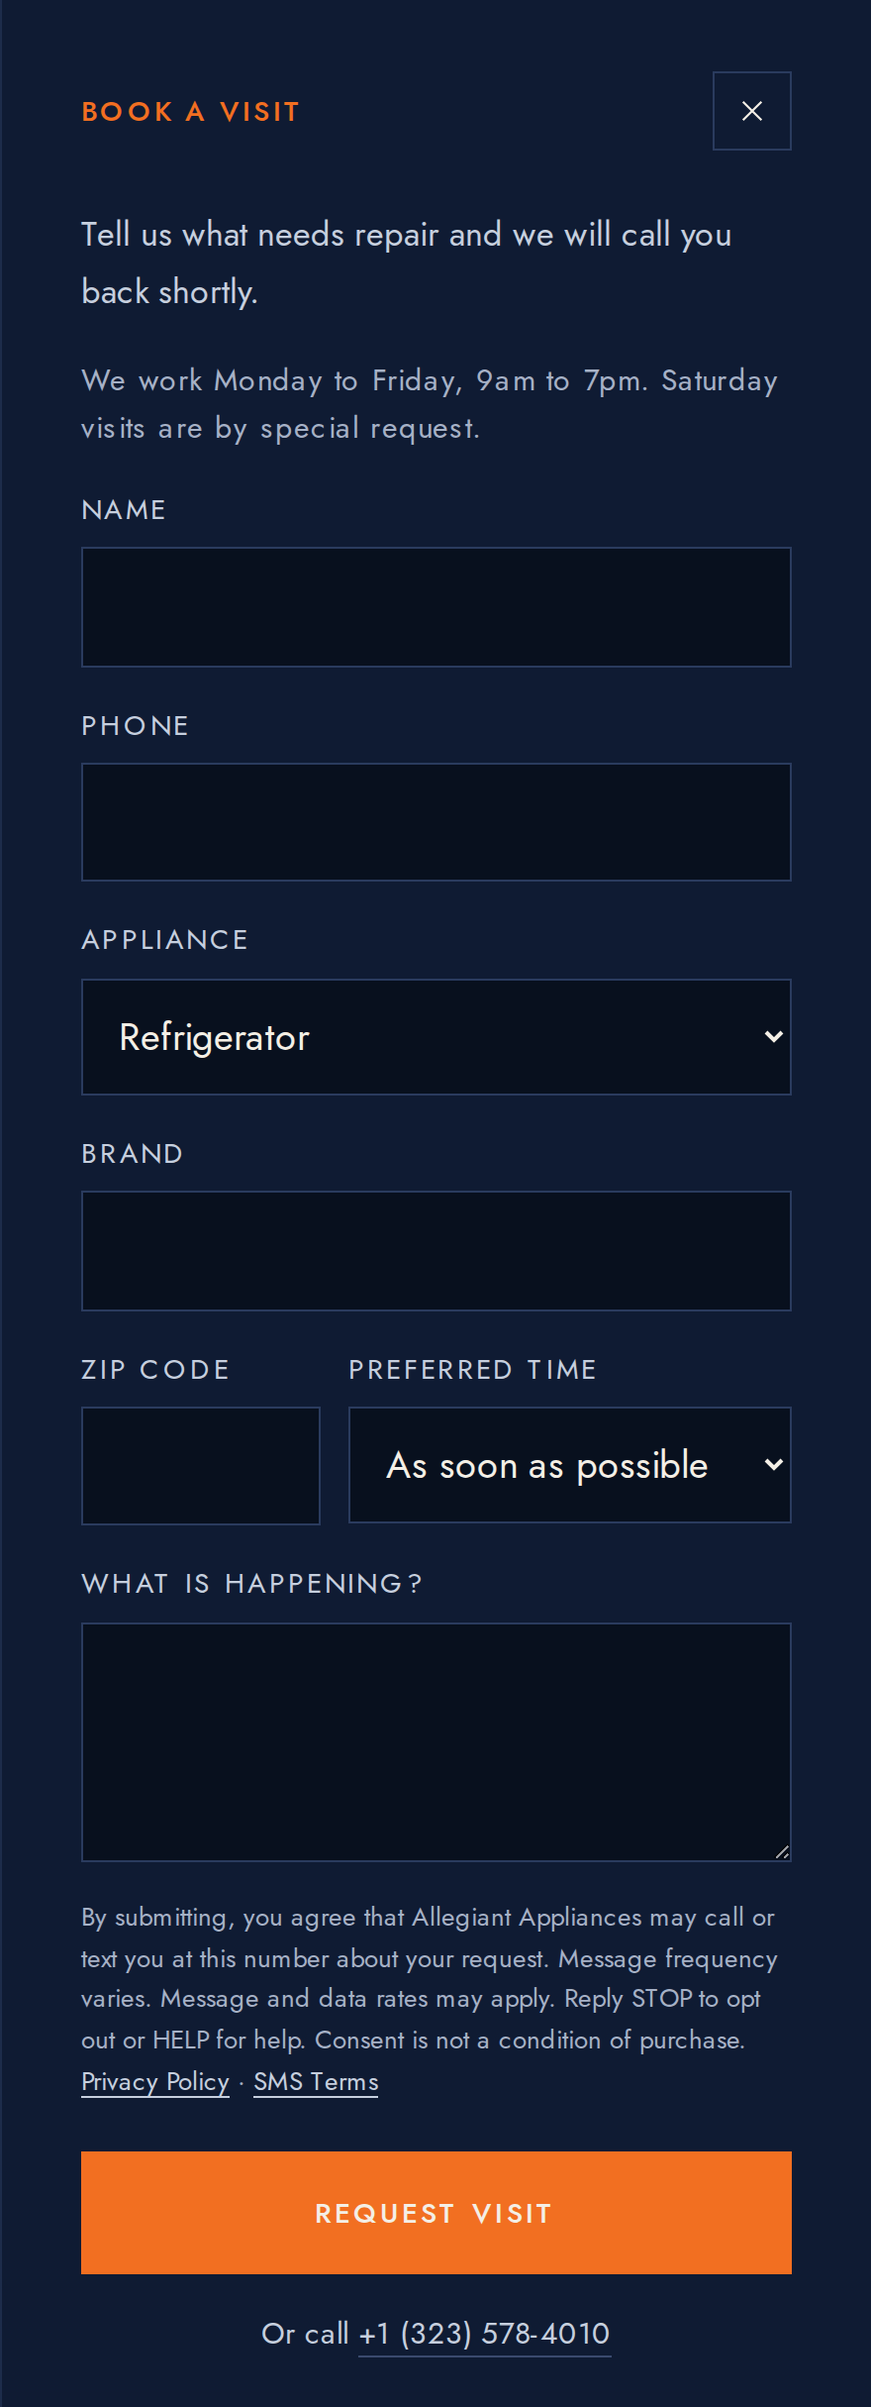
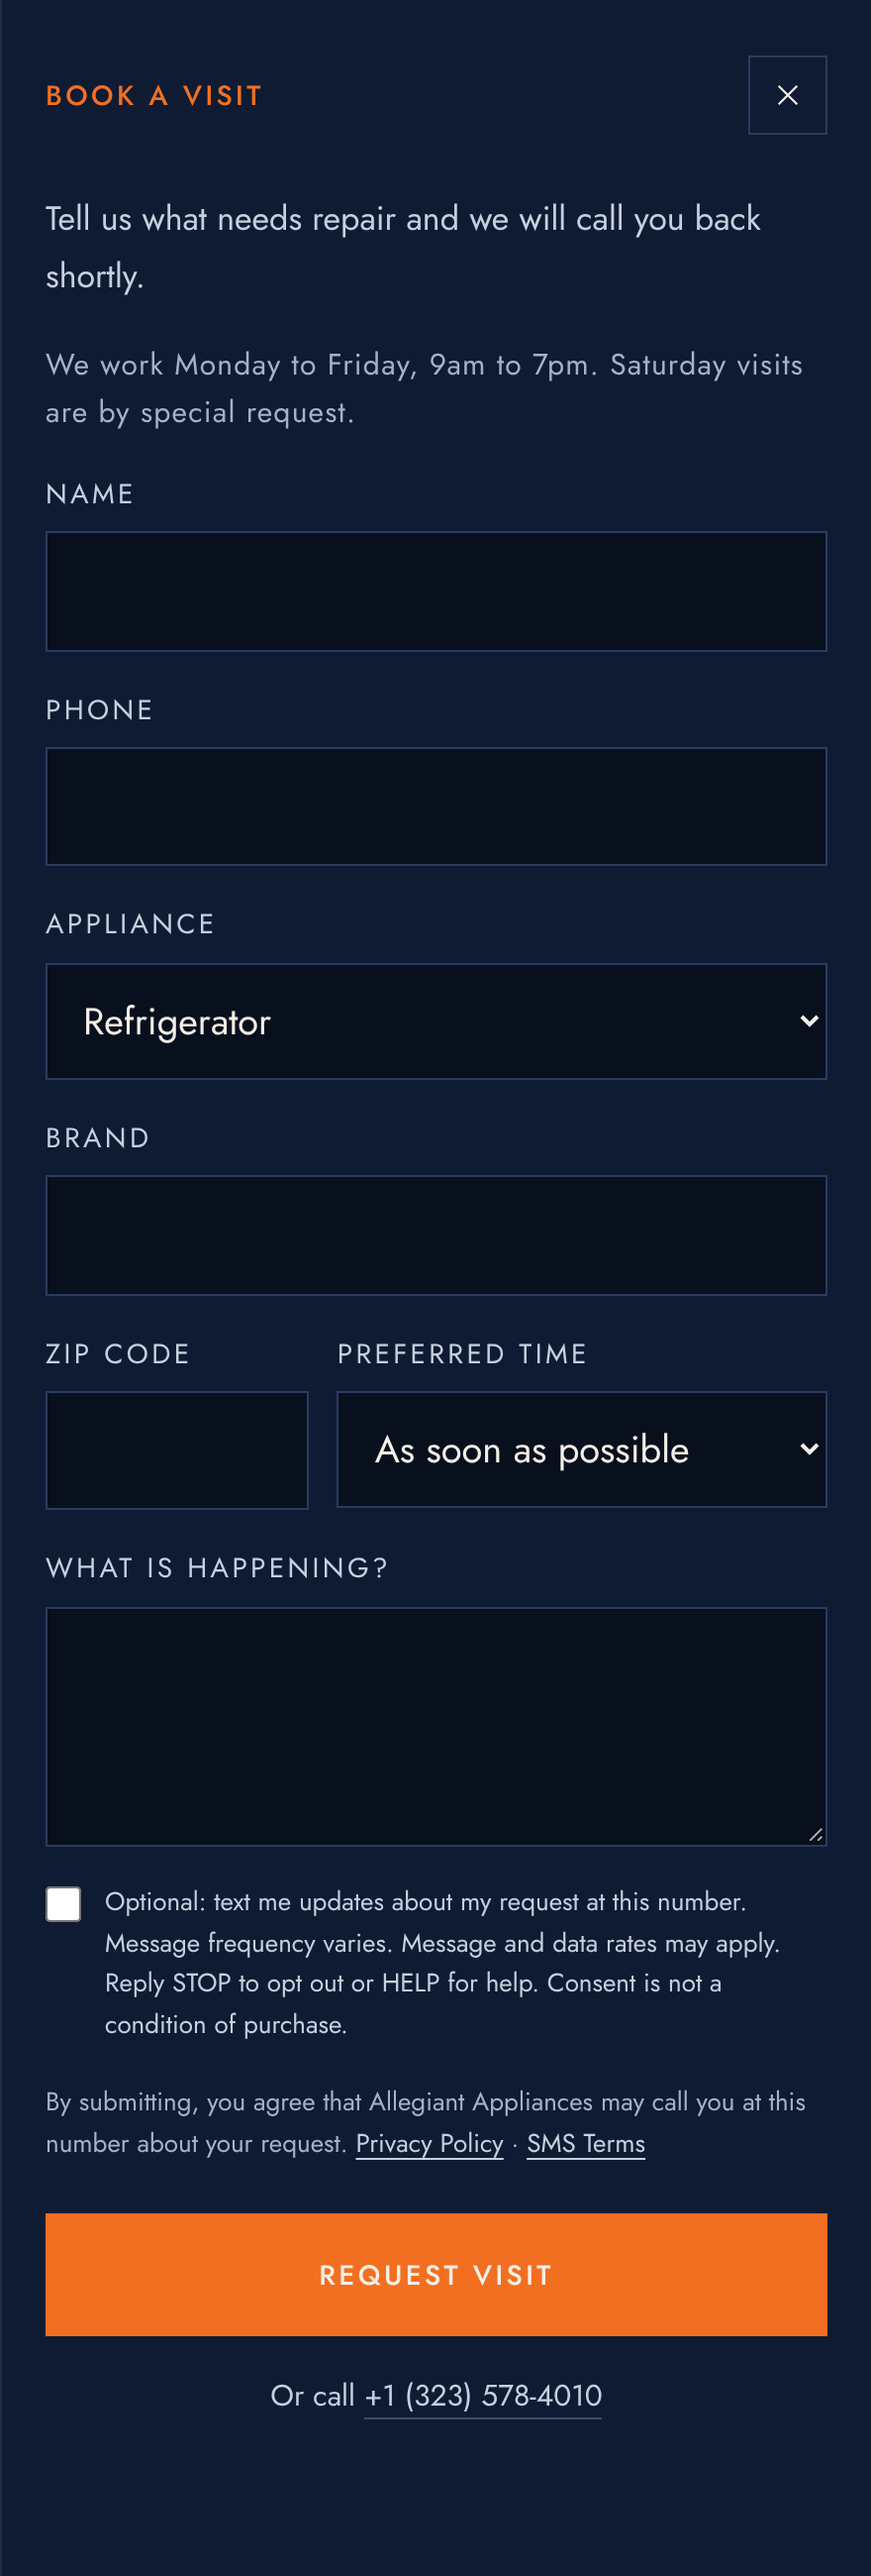
Allegiant: make SMS consent an optional, unchecked checkbox
Twilio rejected the toll-free verification with 30505 "Agreeing to Receive
Messages Must Be Optional": submitting the booking form meant agreeing to
texts. Now:
- The form has a separate, unchecked "Optional: text me updates…" box with
  frequency, rates, STOP/HELP and "not a condition of purchase". The note
  under the form only covers calls.
- SMS Terms (EN/ES) say the only way to opt in is that box; the "call or
  text us" path is removed.
- The lead API stores "[SMS OK]" in the note when the box is checked, the
  email shows "Texts OK: yes/no", and the admin panel only sends an SMS to
  leads that opted in.
- New opt-in screenshot of the form for the resubmission.

Claude-Session: https://claude.ai/code/session_01AY8gRkGhajetKFLkoZL3uJ

diff --git a/src/data/allegiant-legal.ts b/src/data/allegiant-legal.ts
@@ -16,7 +16,17 @@ const PHONE = "+1 (323) 578-4010";
 
 export const legalLabels: Record<
   Lang,
-  { privacy: string; terms: string; updatedLabel: string; backHome: string; consent: string; smsTerms: string }
+  {
+    privacy: string;
+    terms: string;
+    updatedLabel: string;
+    backHome: string;
+    /** Casilla opcional y desmarcada para aceptar mensajes de texto. */
+    smsOptIn: string;
+    /** Aviso bajo el formulario: enviar solo autoriza llamadas. */
+    callNote: string;
+    smsTerms: string;
+  }
 > = {
   en: {
     privacy: "Privacy Policy",
@@ -24,8 +34,9 @@ export const legalLabels: Record<
     updatedLabel: "Last updated",
     backHome: "Back to home",
     smsTerms: "SMS Terms",
-    consent:
-      "By submitting, you agree that Allegiant Appliances may call or text you at this number about your request. Message frequency varies. Message and data rates may apply. Reply STOP to opt out or HELP for help. Consent is not a condition of purchase.",
+    smsOptIn:
+      "Optional: text me updates about my request at this number. Message frequency varies. Message and data rates may apply. Reply STOP to opt out or HELP for help. Consent is not a condition of purchase.",
+    callNote: "By submitting, you agree that Allegiant Appliances may call you at this number about your request.",
   },
   es: {
     privacy: "Política de privacidad",
@@ -33,8 +44,9 @@ export const legalLabels: Record<
     updatedLabel: "Última actualización",
     backHome: "Volver al inicio",
     smsTerms: "Términos de mensajes de texto",
-    consent:
-      "Al enviar, aceptas que Allegiant Appliances te llame o te escriba por mensaje de texto a este número sobre tu solicitud. La frecuencia varía. Pueden aplicar tarifas de mensajes y datos. Responde STOP para dejar de recibirlos o HELP para ayuda. El consentimiento no es condición para comprar.",
+    smsOptIn:
+      "Opcional: envíenme mensajes de texto sobre mi solicitud a este número. La frecuencia varía. Pueden aplicar tarifas de mensajes y datos. Responde STOP para dejar de recibirlos o HELP para ayuda. El consentimiento no es condición para comprar.",
+    callNote: "Al enviar, aceptas que Allegiant Appliances te llame a este número sobre tu solicitud.",
   },
 };
 
@@ -238,7 +250,7 @@ export const privacy: Record<Lang, Doc> = {
 export const terms: Record<Lang, Doc> = {
   en: {
     title: "Terms of Service & SMS Terms",
-    updated: "October 26, 2026",
+    updated: "November 1, 2026",
     intro:
       "These terms apply when you use allegiantappliance.com or contact Allegiant Appliances Inc (“Allegiant”) by form, phone or text. The SMS Terms in section 7 describe our text-message program.",
     sections: [
@@ -286,7 +298,7 @@ export const terms: Record<Lang, Doc> = {
         p: [
           "Program: Allegiant Appliances service text messages.",
           "What you will receive: messages about your service request, such as confirming we received it, scheduling and confirming appointments, callbacks, technician arrival and follow-up on the work. We do not send marketing texts under this program.",
-          "How you opt in: you opt in when you give us your mobile number on our booking form and agree to be contacted, or when you call or text us and ask us to reach you at that number. Consent to receive texts is not a condition of purchasing any goods or services.",
+          "How you opt in: only by checking the optional box “Optional: text me updates about my request at this number” on our booking form. The box is unchecked by default and you can send the form without checking it; in that case we only call you. Consent to receive texts is not a condition of purchasing any goods or services.",
           "Message frequency varies depending on your request. Message and data rates may apply.",
           `How to opt out: reply STOP to any message at any time, and we will stop texting you. You may get one final message confirming it. For help, reply HELP or call ${PHONE}.`,
           "Carriers and mobile network operators are not liable for delayed or undelivered messages. Messages are not available on every carrier.",
@@ -303,7 +315,7 @@ export const terms: Record<Lang, Doc> = {
   },
   es: {
     title: "Términos de servicio y de mensajes de texto",
-    updated: "26 de octubre de 2026",
+    updated: "1 de noviembre de 2026",
     intro:
       "Estos términos se aplican cuando usas allegiantappliance.com o contactas a Allegiant Appliances Inc (“Allegiant”) por formulario, teléfono o mensaje de texto. Los Términos de mensajes de texto, en la sección 7, describen nuestro programa de mensajes.",
     sections: [
@@ -351,7 +363,7 @@ export const terms: Record<Lang, Doc> = {
         p: [
           "Programa: mensajes de texto de servicio de Allegiant Appliances.",
           "Qué recibirás: mensajes sobre tu solicitud de servicio, como confirmar que la recibimos, programar y confirmar citas, devoluciones de llamada, llegada del técnico y seguimiento del trabajo. Este programa no envía mensajes de publicidad.",
-          "Cómo aceptas: aceptas cuando nos das tu número de celular en nuestro formulario de reserva y estás de acuerdo en que te contactemos, o cuando nos llamas o escribes y nos pides que te contactemos en ese número. Aceptar recibir mensajes no es condición para comprar ningún bien ni servicio.",
+          "Cómo aceptas: solo marcando la casilla opcional “Opcional: envíenme mensajes de texto sobre mi solicitud a este número” en nuestro formulario de reserva. La casilla viene desmarcada y puedes enviar el formulario sin marcarla; en ese caso solo te llamamos. Aceptar recibir mensajes no es condición para comprar ningún bien ni servicio.",
           "La frecuencia de los mensajes varía según tu solicitud. Pueden aplicar tarifas de mensajes y datos.",
           `Cómo dejar de recibirlos: responde STOP a cualquier mensaje en cualquier momento y dejaremos de escribirte. Puedes recibir un último mensaje que lo confirme. Para ayuda, responde HELP o llama al ${PHONE}.`,
           "Las operadoras y los proveedores de redes móviles no son responsables por mensajes retrasados o no entregados. Los mensajes no están disponibles en todas las operadoras.",

diff --git a/src/app/api/allegiant/lead/route.ts b/src/app/api/allegiant/lead/route.ts
@@ -3,6 +3,9 @@
  *
  * Entrega:
  * 1. Guarda la solicitud en Supabase (siempre, sin excepciones).
+ * La casilla opcional `smsConsent` del formulario se guarda como "[SMS OK]" al
+ * inicio de la nota; sin esa marca el panel no manda SMS.
+ *
  * 2. Si `RESEND_API_KEY` y `ALLEGIANT_NOTIFY_EMAIL` están configuradas, manda un
  *    correo a Vadim con la solicitud (vía Resend). Las urgentes del agente
  *    telefónico llevan "URGENT" en el asunto.
@@ -68,6 +71,9 @@ export async function POST(request: Request) {
     lead[field] = clean(body[field], limits[field]);
   });
   const lang = body.lang === "es" ? "es" : "en";
+  // Casilla opcional del formulario. Sin ella solo se llama, nunca se escribe por SMS.
+  const smsOk = body.smsConsent === "yes";
+  if (smsOk) lead.message = `[SMS OK] ${lead.message}`.trim().slice(0, limits.message);
 
   const digits = lead.phone.replace(/\D/g, "");
   if (!lead.name || digits.length < 7) {
@@ -97,7 +103,7 @@ export async function POST(request: Request) {
 
   // Aviso a Vadim (correo y webhook)
   const fromPhone = lead.message.startsWith("[PHONE AGENT]");
-  const notes = lead.message.replace(/^\[PHONE AGENT\]\s*/, "");
+  const notes = lead.message.replace(/^\[(PHONE AGENT|SMS OK)\]\s*/, "");
   const text = [
     `New Allegiant visit request (${lang.toUpperCase()})`,
     `Name: ${lead.name}`,
@@ -106,6 +112,7 @@ export async function POST(request: Request) {
     lead.zip ? `ZIP: ${lead.zip}` : null,
     lead.time ? `Preferred time: ${lead.time}` : null,
     notes ? `Notes: ${notes}` : null,
+    fromPhone ? null : `Texts OK: ${smsOk ? "yes" : "no (call only)"}`,
     saved ? null : "NOT SAVED IN THE PANEL (database error). Keep this email.",
   ]
     .filter(Boolean)

diff --git a/src/components/allegiant/AllegiantShell.tsx b/src/components/allegiant/AllegiantShell.tsx
@@ -232,8 +232,13 @@ export function AllegiantShell({
             {status === "error" && (
               <p className="al-form-error" role="alert">{b.error}</p>
             )}
+            {/* Aceptar mensajes de texto es opcional y la casilla viene desmarcada (requisito de los operadores). */}
+            <label className="al-form-check">
+              <input type="checkbox" name="smsConsent" value="yes" />
+              <span>{legalLabels[lang].smsOptIn}</span>
+            </label>
             <p className="al-form-consent">
-              {legalLabels[lang].consent}{" "}
+              {legalLabels[lang].callNote}{" "}
               <a href={lang === "es" ? "/allegiant/es/privacy" : "/allegiant/privacy"}>{legalLabels[lang].privacy}</a>
               {" · "}
               <a href={lang === "es" ? "/allegiant/es/terms#sms" : "/allegiant/terms#sms"}>{legalLabels[lang].smsTerms}</a>

diff --git a/src/app/allegiant/allegiant.css b/src/app/allegiant/allegiant.css
@@ -1551,6 +1551,23 @@ html:has(.allegiant) {
   line-height: 1.6;
   color: var(--al-faint);
 }
+.al-form-check {
+  display: flex;
+  gap: 12px;
+  align-items: flex-start;
+  font-size: 13px;
+  line-height: 1.6;
+  color: var(--al-muted);
+  cursor: pointer;
+}
+.al-form-check input {
+  flex: none;
+  width: 18px;
+  height: 18px;
+  margin: 2px 0 0;
+  accent-color: #f26f21;
+  cursor: pointer;
+}
 .al-form-consent a {
   color: var(--al-muted);
   text-decoration: underline;

diff --git a/src/components/allegiant/AdminPanel.tsx b/src/components/allegiant/AdminPanel.tsx
@@ -83,6 +83,12 @@ export function AdminPanel() {
 
     if (newStatus !== "confirmed" || !lead) return;
 
+    // Solo se escribe por SMS a quien marcó la casilla opcional del formulario.
+    if (!lead.message?.startsWith("[SMS OK]")) {
+      alert(`Lead aprobado. ${lead.name} no aceptó mensajes de texto: llámalo al ${lead.phone}.`);
+      return;
+    }
+
     setSendingSms(true);
     try {
       const smsResponse = await fetch("/api/allegiant/sms", {
